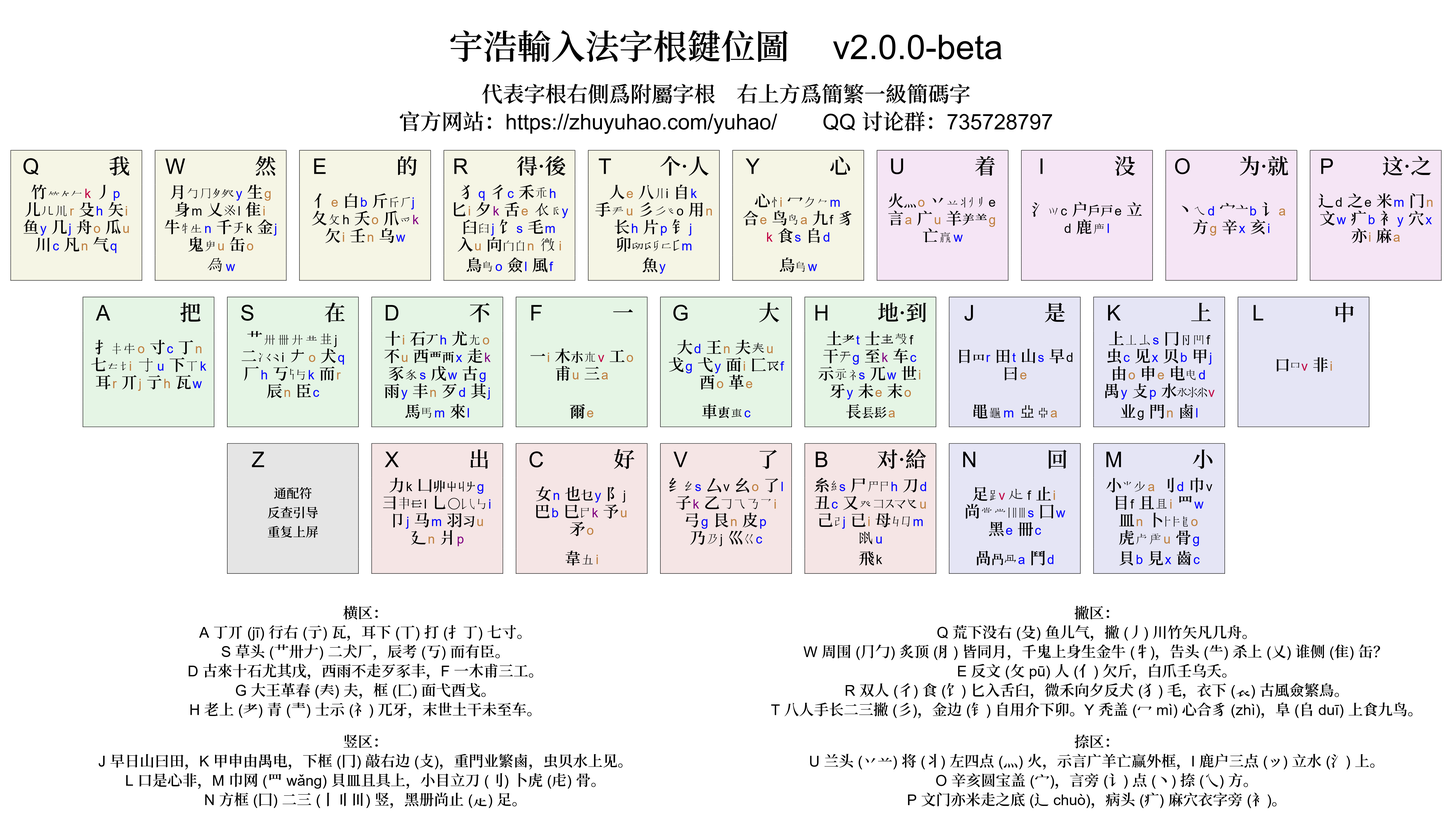
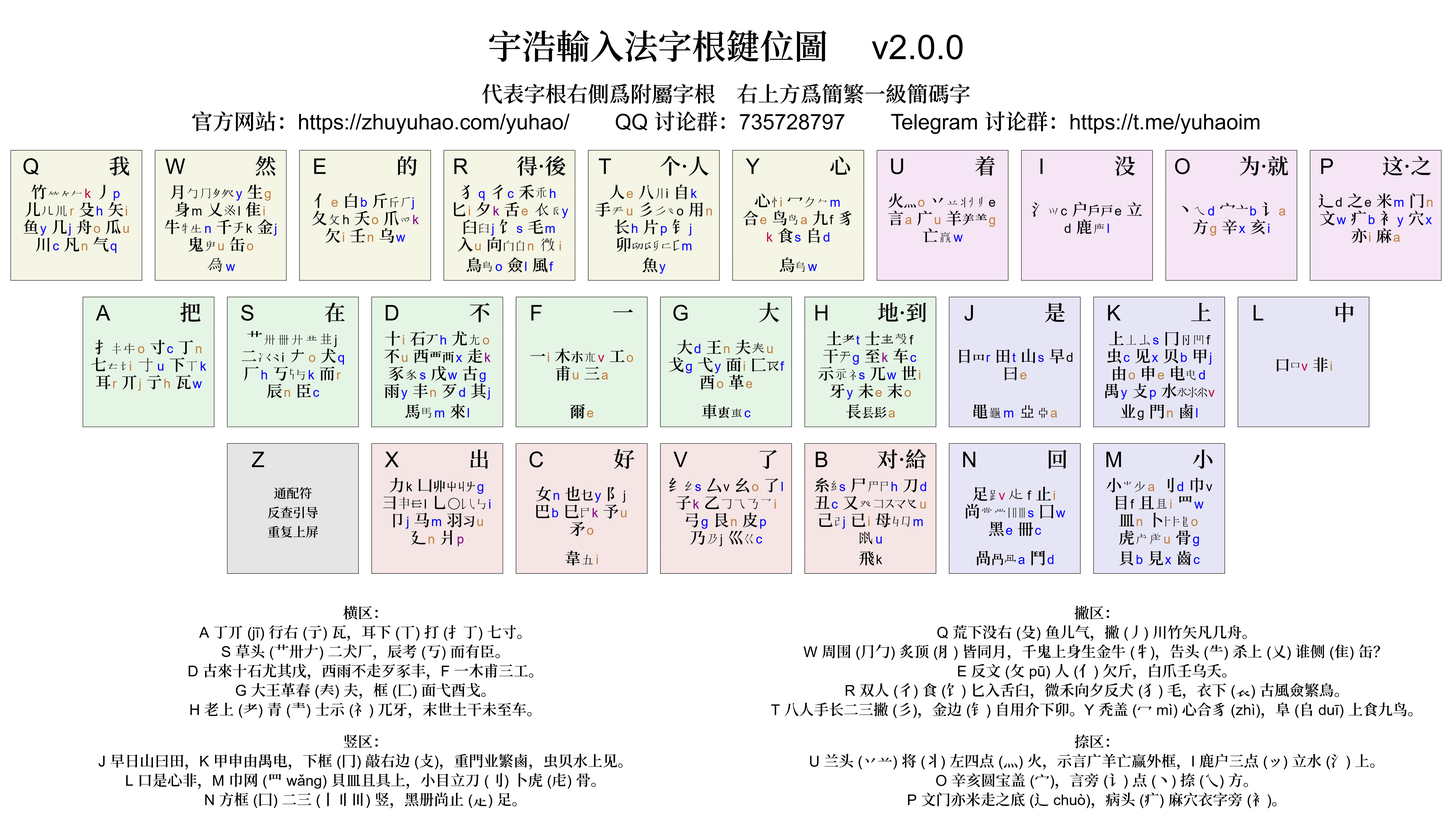
Add statistics on simp 1 chars

Changed region(s): [[0.3124, 0.031, 0.6872, 0.0931], [0.125, 0.1242, 0.8747, 0.1552]]

diff --git a/docs/articles/statistics.md b/docs/articles/statistics.md
@@ -63,9 +63,9 @@ $$N_{s} = \mid \{z_{ia}, z_{ib}  \text{ if } M(z_{ia}) = M(z_{ib}) \text{ for al
 
 $$N_{d} = \sum\limits_{i \in I, j \in J_i/\{1\}} p(z_{ij}).$$
 
-### 结果
+### 单字全码数据
 
-表格按输入法的性质排列：
+以下为单字全码的结果。表格按输入法的性质排列：
 
 | 方案          | GB2312 | 通规一二级 | 国字常用 | 常用繁简 |   GBK | 简体选重率 | 繁体选重率 | 繁简混合文本选重率 |
 | :------------ | -----: | ---------: | -------: | -------: | ----: | :--------- | :--------- | :----------------- |
@@ -91,7 +91,37 @@ $$N_{d} = \sum\limits_{i \in I, j \in J_i/\{1\}} p(z_{ij}).$$
 | **三码定长**  |        |            |          |          |       |            |            | **出简不出全**     |
 | 三码郑码      |   2700 |       2551 |        - |        - |     - | 51.8‱      | -          | -                  |
 | **音形方案**  |        |            |          |          |       |            |            | **简体方案**       |
-| 小鹤音形      |    730 |        725 |        - |        - |     - | 85.3‱      | -          | -                  |
+| 小鹤音形      |    651 |        641 |        - |        - |     - | 85.5‱      | -          | -                  |
+
+### 一级简码出简不出全数据
+
+以下为一级简码出简不出全的结果，换句话说，如果一个字存在一级简码，则默认只打简码，并将其全码删除。表格按输入法的性质排列：
+
+| 方案          | GB2312 | 通规一二级 | 国字常用 | 常用繁简 |   GBK | 简体选重率 | 繁体选重率 | 繁简混合文本选重率 |
+| :------------ | -----: | ---------: | -------: | -------: | ----: | :--------- | :--------- | :----------------- |
+| **四码定长**  |        |            |          |          |       |            |            | **字根单编码**     |
+| 五笔86        |    519 |        452 |      333 |     1651 |  6445 | 34.2‱      | 75.5‱      | 225.0‱             |
+| 五笔98        |    560 |        500 |      363 |     1669 |  6394 | 333.6‱     | 323.7‱     | 532.3‱             |
+| 五笔06·新世纪 |    577 |        536 |      421 |     1734 |  6640 | 320.8‱     | 325.0‱     | 515.9‱             |
+| 张码          |    124 |        130 |      152 |     1032 |  4578 | 268.6‱     | 296.3‱     | 371.4‱             |
+| 蓝宝石        |    382 |        354 |      282 |      709 |  5070 | 20.5‱      | 57.3‱      | 58.2‱              |
+| **四码定长**  |        |            |          |          |       |            |            | **字根双编码**     |
+| 郑码          |    549 |        519 |      316 |     1783 |  6629 | 51.4‱      | 66.5‱      | 329.6‱             |
+| 真码          |    412 |        356 |      234 |     1821 |  6655 | 6.4‱       | 41.5‱      | 254.2‱             |
+| 徐码13        |    324 |        288 |      121 |      458 |  2863 | 10.4‱      | 22.5‱      | 24.5‱              |
+| 徐码23        |    318 |        278 |      125 |      451 |  2894 | 10.7‱      | 21.7‱      | 25.0‱              |
+| 宇浩v1.4.3    |    313 |        271 |      214 |      583 |  5015 | 5.5‱       | 15.6‱      | 17.7‱              |
+| 宇浩v2.0.0    |    314 |        265 |      208 |      579 |  5186 | 5.2‱       | 15.3‱      | 17.0‱              |
+| **五码定长**  |        |            |          |          |       |            |            | 字根单编码         |
+| 仓颉五代      |    414 |        363 |      162 |      581 |  2886 | 88.4‱      | 48.4‱      | 104.3‱             |
+| **不定长**    |
+| 山人全息      |    202 |        168 |       84 |     1458 |  3961 | 6.4‱       | 7.5‱       | 239.0‱             |
+| **选重方案**  |
+| 五笔092       |   1907 |       1602 |      818 |     2065 | 11449 | 1314.3‱    | 727.8‱     | 1085.0‱            |
+| **三码定长**  |        |            |          |          |       |            |            | **出简不出全**     |
+| 三码郑码      |   2700 |       2551 |        - |        - |     - | 51.8‱      | -          | -                  |
+| **音形方案**  |        |            |          |          |       |            |            | **简体方案**       |
+| 小鹤音形      |    651 |        641 |        - |        - |     - | 85.5‱      | -          | -                  |
 
 ## 词语重码数据
 
@@ -176,30 +206,92 @@ $$N_{d} = \sum\limits_{i \in I, j \in J_i/\{1\}} p(w_{ij}).$$
 
 ## 古今名著选重频率统计
 
-以下为单字全码情况下，部分著名文学作品的选重频率统计。表格按输入法的性质排列：
+这里给出部分名著的选重频率统计。四本简体、三本繁体、一本繁简混排。
 
-| 方案          | 毛泽东选集(简) | 天龙八部(简) | 三体三部曲(简) | 战争与和平(简) | 史記(繁) | 昭明文選(繁) | 紅樓夢(繁) | 論語集解(繁簡混排) |
-| :------------ | -------------: | -----------: | -------------: | -------------: | -------: | -----------: | ---------: |
-| **四码定长**  |                |              |                |                |          |              |            |                    |
-| 五笔86        |          25.8‱ |        30.6‱ |          25.7‱ |          20.9‱ |    88.4‱ |       105.9‱ |      28.9‱ | 260.8‱             |
-| 五笔98        |          31.9‱ |        32.7‱ |          34.5‱ |          33.9‱ |    71.3‱ |        95.3‱ |      33.9‱ | 270.6‱             |
-| 五笔06·新世纪 |          22.2‱ |        25.5‱ |          24.3‱ |          37.1‱ |    79.7‱ |        93.5‱ |      35.3‱ | 252.5‱             |
-| 张码          |         198.3‱ |       149.0‱ |         143.8‱ |         134.3‱ |    83.6‱ |        95.5‱ |      90.1‱ | 194.9‱             |
-| 蓝宝石        |          18.4‱ |        20.5‱ |          24.9‱ |          18.1‱ |    43.8‱ |        84.7‱ |      25.3‱ | 20.5‱              |
-| 郑码          |          44.2‱ |        51.6‱ |          49.2‱ |          48.1‱ |    89.9‱ |       107.6‱ |      39.2‱ | 266.7‱             |
-| 真码          |           5.3‱ |        14.0‱ |           5.6‱ |           6.9‱ |    45.3‱ |        74.2‱ |      16.6‱ | 298.4‱             |
-| 徐码13        |           3.5‱ |         9.6‱ |           7.0‱ |           7.2‱ |    20.4‱ |        32.6‱ |      10.0‱ | 12.2‱              |
-| 徐码23        |           3.3‱ |         9.8‱ |           7.0‱ |           7.8‱ |    22.1‱ |        34.5‱ |      10.9‱ | 10.3‱              |
-| 宇浩v1.4.3    |           1.3‱ |         3.1‱ |           2.0‱ |           2.8‱ |    31.1‱ |        43.8‱ |      10.5‱ | 7.3‱               |
-| 宇浩v2.0.0    |           1.3‱ |         3.1‱ |           3.1‱ |           2.7‱ |    31.1‱ |        44.4‱ |       9.8‱ | 4.4‱               |
+### 单字全码数据
+
+以下为单字全码的结果。
+
+| 方案          | 毛泽东选集(简) | 天龙八部(简) | 三体(简) | 战争与和平(简) | 史記(繁) | 昭明文選(繁) | 紅樓夢(繁) | 論語集解(繁簡混排) |
+| :------------ | -------------: | -----------: | -------: | -------------: | -------: | -----------: | ---------: |
+| **四码定长**  |                |              |          |                |          |              |            |                    |
+| 五笔86        |          25.8‱ |        30.6‱ |    25.7‱ |          20.9‱ |    88.4‱ |       105.9‱ |      28.9‱ | 260.8‱             |
+| 五笔98        |          31.9‱ |        32.7‱ |    34.5‱ |          33.9‱ |    71.3‱ |        95.3‱ |      33.9‱ | 270.6‱             |
+| 五笔06·新世纪 |          22.2‱ |        25.5‱ |    24.3‱ |          37.1‱ |    79.7‱ |        93.5‱ |      35.3‱ | 252.5‱             |
+| 张码          |         198.3‱ |       149.0‱ |   143.8‱ |         134.3‱ |    83.6‱ |        95.5‱ |      90.1‱ | 194.9‱             |
+| 蓝宝石        |          18.4‱ |        20.5‱ |    24.9‱ |          18.1‱ |    43.8‱ |        84.7‱ |      25.3‱ | 20.5‱              |
+| 郑码          |          44.2‱ |        51.6‱ |    49.2‱ |          48.1‱ |    89.9‱ |       107.6‱ |      39.2‱ | 266.7‱             |
+| 真码          |           5.3‱ |        14.0‱ |     5.6‱ |           6.9‱ |    45.3‱ |        74.2‱ |      16.6‱ | 298.4‱             |
+| 徐码13        |           3.5‱ |         9.6‱ |     7.0‱ |           7.2‱ |    20.4‱ |        32.6‱ |      10.0‱ | 12.2‱              |
+| 徐码23        |           3.3‱ |         9.8‱ |     7.0‱ |           7.8‱ |    22.1‱ |        34.5‱ |      10.9‱ | 10.3‱              |
+| 宇浩v1.4.3    |           1.3‱ |         3.1‱ |     2.0‱ |           2.8‱ |    31.1‱ |        43.8‱ |      10.5‱ | 7.3‱               |
+| 宇浩v2.0.0    |           1.3‱ |         3.1‱ |     3.1‱ |           2.7‱ |    31.1‱ |        44.4‱ |       9.8‱ | 4.4‱               |
 | **五码定长**  |
-| 倉頡五代      |          74.0‱ |        71.1‱ |          80.2‱ |          60.0‱ |    74.6‱ |        73.7‱ |      33.0‱ | 67.4‱              |
+| 倉頡五代      |          74.0‱ |        71.1‱ |    80.2‱ |          60.0‱ |    74.6‱ |        73.7‱ |      33.0‱ | 67.4‱              |
 | **不定长**    |
-| 山人全息      |           2.4‱ |         6.8‱ |           5.6‱ |           6.1‱ |    20.8‱ |        18.1‱ |       6.3‱ | 281.3‱             |
-| **三码定长**  |                |              |                |                |          |              |            | **出简不出全**     |
-| 三码郑码      |           9.7‱ |        47.3‱ |          26.4‱ |          29.5‱ |   296.1‱ |       395.8‱ |     143.8‱ | 330.2‱             |
-| **音形方案**  |                |              |                |                |          |              |            | **简体方案**       |
-| 小鹤音形      |          81.7‱ |        84.2‱ |          74.2‱ |          69.6‱ |    85.7‱ |        67.4‱ |      35.1‱ | 75.2‱              |
+| 山人全息      |           2.4‱ |         6.8‱ |     5.6‱ |           6.1‱ |    20.8‱ |        18.1‱ |       6.3‱ | 281.3‱             |
+| **三码定长**  |                |              |          |                |          |              |            | **出简不出全**     |
+| 三码郑码      |           9.7‱ |        47.3‱ |    26.4‱ |          29.5‱ |
+| **音形方案**  |                |              |          |                |          |              |            | **简体方案**       |
+| 小鹤音形      |          81.7‱ |        84.2‱ |    74.2‱ |          69.6‱ |
+
+### 一级简码出简不出全数据
+
+以下为一级简码出简不出全的结果，换句话说，如果一个字存在一级简码，则默认只打简码，并将其全码后置。
+
+| 方案          | 毛泽东选集(简) | 天龙八部(简) | 三体(简) | 战争与和平(简) | 史記(繁) | 昭明文選(繁) | 紅樓夢(繁) | 論語集解(繁簡混排) |
+| :------------ | -------------: | -----------: | -------: | -------------: | -------: | -----------: | ---------: |
+| 五笔86        |          25.8‱ |        30.6‱ |    25.7‱ |          20.9‱ |    88.4‱ |       105.9‱ |      28.9‱ | 260.8‱             |
+| 五笔98        |         316.1‱ |       414.0‱ |   273.7‱ |         257.7‱ |   259.0‱ |       269.2‱ |     294.1‱ | 389.3‱             |
+| 五笔06·新世纪 |         306.3‱ |       396.4‱ |   262.1‱ |         253.7‱ |   255.4‱ |       264.9‱ |     290.3‱ | 367.3‱             |
+| 张码          |         520.2‱ |       296.1‱ |   277.6‱ |         229.8‱ |   382.6‱ |       260.8‱ |     231.4‱ | 314.5‱             |
+| 蓝宝石        |          18.1‱ |        13.8‱ |    24.6‱ |          17.5‱ |    42.3‱ |        84.2‱ |      24.6‱ | 20.5‱              |
+| 郑码          |          39.5‱ |        41.5‱ |    45.8‱ |          43.1‱ |    90.2‱ |       107.8‱ |      39.3‱ | 263.3‱             |
+| 真码          |           1.1‱ |         3.0‱ |     2.1‱ |           2.1‱ |    44.9‱ |        74.1‱ |      14.2‱ | 290.1‱             |
+| 徐码13        |           3.5‱ |         9.6‱ |     7.0‱ |           7.2‱ |    19.9‱ |        30.3‱ |       9.9‱ | 11.7‱              |
+| 徐码23        |           3.3‱ |         9.8‱ |     7.0‱ |           7.8‱ |    22.1‱ |        32.9‱ |      10.7‱ | 9.8‱               |
+| 宇浩v1.4.3    |           1.3‱ |         3.1‱ |     2.0‱ |           2.8‱ |    31.1‱ |        43.8‱ |      10.5‱ | 7.3‱               |
+| 宇浩v2.0.0    |           1.3‱ |         3.1‱ |     3.1‱ |           2.7‱ |    31.1‱ |        44.4‱ |       9.8‱ | 4.4‱               |
+
+上表反映的是确定性，而平均码长则反映输入效率。现统计如下。
+
+| 方案          | 毛泽东选集(简) | 天龙八部(简) | 三体(简) | 战争与和平(简) | 史記(繁) | 昭明文選(繁) | 紅樓夢(繁) | 論語集解(繁簡混排) |
+| :------------ | -------------: | -----------: | -------: | -------------: | -------: | -----------: | ---------: |
+| 五笔86        |            3.5 |         3.67 |     3.59 |           3.61 |     3.87 |          3.9 |       3.68 | 3.83               |
+| 五笔98        |           3.47 |         3.62 |     3.56 |           3.59 |     3.73 |         3.79 |       3.63 | 3.64               |
+| 五笔06·新世纪 |           3.47 |         3.62 |     3.56 |           3.59 |     3.73 |          3.8 |       3.63 | 3.66               |
+| 张码          |           3.11 |         3.18 |     3.12 |           3.12 |     3.48 |         3.59 |       3.31 | 3.39               |
+| 蓝宝石        |            3.6 |          3.6 |     3.57 |           3.54 |     3.85 |         3.89 |       3.62 | 3.8                |
+| 郑码          |            3.5 |         3.56 |     3.48 |            3.5 |     3.68 |         3.75 |       3.58 | 3.66               |
+| 真码          |           3.47 |         3.54 |     3.47 |           3.53 |     3.67 |         3.73 |       3.57 | 3.63               |
+| 徐码13        |           3.45 |         3.48 |     3.48 |           3.45 |     3.63 |         3.67 |       3.54 | 3.55               |
+| 徐码23        |           3.46 |          3.5 |     3.48 |           3.46 |     3.64 |         3.68 |       3.51 | 3.55               |
+| 宇浩v1.4.3    |           3.62 |         3.64 |     3.57 |            3.6 |      3.9 |         3.93 |       3.68 | 3.86               |
+| 宇浩v2.0.0    |           3.62 |         3.63 |     3.57 |            3.6 |     3.89 |         3.92 |       3.68 | 3.85               |
+
+### 二级简码出简不出全数据
+
+以下为二级简码出简不出全的结果，换句话说，如果一个字存在一级和二级简码，则默认只打简码，并将其全码后置。部分方案设置了二级简码字，数据无法准确计算，故而略去。注意，真码只设置一级简码，不设置二级简码。
+
+| 方案       | 毛泽东选集(简) | 天龙八部(简) | 三体(简) | 战争与和平(简) | 史記(繁) | 昭明文選(繁) | 紅樓夢(繁) | 論語集解(繁簡混排) |
+| :--------- | -------------: | -----------: | -------: | -------------: | -------: | -----------: | ---------: |
+| 五笔86     |           5.7‱ |        15.6‱ |    12.1‱ |           9.0‱ |    75.0‱ |        93.8‱ |      24.1‱ | 192.0‱             |
+| 蓝宝石     |           3.8‱ |         5.6‱ |     1.7‱ |           2.2‱ |    35.3‱ |        73.3‱ |      20.4‱ | 9.8‱               |
+| 郑码       |          13.1‱ |        15.7‱ |    11.7‱ |          14.7‱ |    73.0‱ |        81.3‱ |      22.2‱ | 213.4‱             |
+| 真码       |           1.1‱ |         3.0‱ |     2.1‱ |           2.1‱ |    44.9‱ |        74.1‱ |      14.2‱ | 290.1‱             |
+| 徐码23     |           3.2‱ |         7.9‱ |     5.8‱ |           7.3‱ |    23.6‱ |        40.6‱ |      10.2‱ | 12.7‱              |
+| 宇浩v2.0.0 |           1.0‱ |         1.6‱ |     2.5‱ |           1.9‱ |    24.6‱ |        37.9‱ |       8.1‱ | 3.9‱               |
+
+上表反映的是确定性，而平均码长则反映输入效率。现统计如下。注意，真码只设置一级简码，不设置二级简码。
+
+| 方案       | 毛泽东选集(简) | 天龙八部(简) | 三体(简) | 战争与和平(简) | 史記(繁) | 昭明文選(繁) | 紅樓夢(繁) | 論語集解(繁簡混排) |
+| :--------- | -------------: | -----------: | -------: | -------------: | -------: | -----------: | ---------: |
+| 五笔86     |           3.12 |         3.31 |     3.21 |           3.24 |     3.59 |         3.65 |       3.44 | 3.49               |
+| 蓝宝石     |           3.04 |          3.1 |     3.03 |           3.05 |     3.48 |         3.56 |       3.29 | 3.36               |
+| 郑码       |           3.18 |         3.31 |     3.19 |           3.23 |     3.54 |         3.64 |        3.4 | 3.49               |
+| 真码       |           3.47 |         3.54 |     3.47 |           3.53 |     3.67 |         3.73 |       3.57 | 3.63               |
+| 徐码23     |           3.15 |         3.21 |     3.18 |           3.17 |     3.49 |         3.53 |       3.32 | 3.33               |
+| 宇浩v2.0.0 |           3.16 |         3.16 |     3.09 |           3.11 |     3.51 |          3.6 |       3.29 | 3.41               |
 
 ## 码表来源
 

diff --git a/index.md b/index.md
@@ -21,14 +21,14 @@ nav_order: 1
 >点击加入官方 QQ 群: [735728797](https://jq.qq.com/?_wv=1027&k=2OYDP4Tk) · 
 >点击加入官方 Telegram 群: [yuhaoim](https://t.me/yuhaoim)  
 >[正(繁)體字版官方網站](https://zhuyuhao.com/yuhaoim)  
->[宇浩二代v2.0.0-beta公测版下载(四重注解+台湾字形支持)](https://github.com/forFudan/yuhao/releases/tag/v2.0.0-beta)  
+>[宇浩二代v2.0.0-beta下载(四重注解+台湾字形支持)](https://github.com/forFudan/yuhao/releases/tag/v2.0.0-beta)  
 >[宇浩一代v1.4.3下载](https://github.com/forFudan/yuhao/releases/tag/v1.4.3) · 
 >[宇浩一代全部资料和教程](./docs/v1/v1)  
 >[快速入门](./docs/cookbook) · 
 >[详细教程](./docs/learn) · 
 >[在线练习](./docs/practice) · 
 >[更新日志](./docs/updates/updates) · 
->[二代拆分查询(台湾字形支持)](./v2/chaifen/)  
+>[拆分查询(台湾字形支持)](./v2/chaifen/)  
 
 ## 简介
 
@@ -51,7 +51,7 @@ nav_order: 1
 
 [点击这里，使用字根练习小程序，直接学习最常用的100个字根。](./v2/practice/practice_100.html)两个小时后，你就可以开始上手打字了。
 
-[![宇浩输入法宋体字根图](./image/宇浩输入法宋体字根图.png)](./image/宇浩输入法宋体字根图.png)
+[![宇浩输入法宋体字根图](./image/宇浩输入法宋体字根图v2.png)](./image/宇浩输入法宋体字根图v2.png)
 
 ## 特点
 
@@ -96,32 +96,38 @@ nav_order: 1
 {: .highlight }
 [点击此处](./docs/articles/discussion)详细了解我对一款具有平衡性的输入法的一些思考和分析，以及宇浩输入法的设计理念和基本考量（陆标繁体书写）。
 
-## 常见输入法古今名著选重频率
+## 常见输入法的世界名著选重率
 
-以下为单字全码情况下，部分著名文学作品的选重频率统计（单位为每万字选重次数）。表格按输入法的性质排列：
+这里给出部分名著的选重频率统计。四本简体、三本繁体、一本繁简混排。单位为每万字选重次数。单列数据最低值加粗表示。
 
-| 方案          | 毛泽东选集(简) | 天龙八部(简) | 三体三部曲(简) | 战争与和平(简) | 史記(繁) | 昭明文選(繁) | 紅樓夢(繁) | 論語集解(繁簡混排) |
-| :------------ | -------------: | -----------: | -------------: | -------------: | -------: | -----------: | ---------: | -----------------: |
-| **四码定长**  |                |              |                |                |          |              |            |                    |
-| 五笔86        |          25.8‱ |        30.6‱ |          25.7‱ |          20.9‱ |    88.4‱ |       105.9‱ |      28.9‱ |             260.8‱ |
-| 五笔98        |          31.9‱ |        32.7‱ |          34.5‱ |          33.9‱ |    71.3‱ |        95.3‱ |      33.9‱ |             270.6‱ |
-| 五笔06·新世纪 |          22.2‱ |        25.5‱ |          24.3‱ |          37.1‱ |    79.7‱ |        93.5‱ |      35.3‱ |             252.5‱ |
-| 张码          |         198.3‱ |       149.0‱ |         143.8‱ |         134.3‱ |    83.6‱ |        95.5‱ |      90.1‱ |             194.9‱ |
-| 蓝宝石        |          18.4‱ |        20.5‱ |          24.9‱ |          18.1‱ |    43.8‱ |        84.7‱ |      25.3‱ |              20.5‱ |
-| 郑码          |          44.2‱ |        51.6‱ |          49.2‱ |          48.1‱ |    89.9‱ |       107.6‱ |      39.2‱ |             266.7‱ |
-| 真码          |           5.3‱ |        14.0‱ |           5.6‱ |           6.9‱ |    45.3‱ |        74.2‱ |      16.6‱ |             298.4‱ |
-| 徐码13        |           3.5‱ |         9.6‱ |           7.0‱ |           7.2‱ |    20.4‱ |        32.6‱ |      10.0‱ |              12.2‱ |
-| 徐码23        |           3.3‱ |         9.8‱ |           7.0‱ |           7.8‱ |    22.1‱ |        34.5‱ |      10.9‱ |              10.3‱ |
-| 宇浩v1.4.3    |           1.3‱ |         3.1‱ |           2.0‱ |           2.8‱ |    31.1‱ |        43.8‱ |      10.5‱ |               7.3‱ |
-| 宇浩v2.0.0    |           1.3‱ |         3.1‱ |           3.1‱ |           2.7‱ |    31.1‱ |        44.4‱ |       9.8‱ |               4.4‱ |
-| **五码定长**  |
-| 倉頡五代      |          74.0‱ |        71.1‱ |          80.2‱ |          60.0‱ |    74.6‱ |        73.7‱ |      33.0‱ |              67.4‱ |
-| **不定长**    |
-| 山人全息      |           2.4‱ |         6.8‱ |           5.6‱ |           6.1‱ |    20.8‱ |        18.1‱ |       6.3‱ |             281.3‱ |
-| **三码定长**  |                |              |                |                |          |              |            |     **出简不出全** |
-| 三码郑码      |           9.7‱ |        47.3‱ |          26.4‱ |          29.5‱ |        - |            - |          - |                  - |
-| **音形方案**  |                |              |                |                |          |              |            |       **简体方案** |
-| 小鹤音形      |          81.7‱ |        84.2‱ |          74.2‱ |          69.6‱ |        - |            - |          - |                  - |
+以下为一级简码出简不出全的结果，换句话说，如果一个字存在一级简码，则默认只打简码，并将其全码删除。
+
+| 方案          | 毛泽东选集(简) | 天龙八部(简) | 三体(简) | 战争与和平(简) |  史記(繁) | 昭明文選(繁) | 紅樓夢(繁) | 論語集解(繁簡混排) |
+| :------------ | -------------: | -----------: | -------: | -------------: | --------: | -----------: | ---------: |
+| 五笔86        |          25.8‱ |        30.6‱ |    25.7‱ |          20.9‱ |     88.4‱ |       105.9‱ |      28.9‱ | 260.8‱             |
+| 五笔98        |         316.1‱ |       414.0‱ |   273.7‱ |         257.7‱ |    259.0‱ |       269.2‱ |     294.1‱ | 389.3‱             |
+| 五笔06·新世纪 |         306.3‱ |       396.4‱ |   262.1‱ |         253.7‱ |    255.4‱ |       264.9‱ |     290.3‱ | 367.3‱             |
+| 张码          |         520.2‱ |       296.1‱ |   277.6‱ |         229.8‱ |    382.6‱ |       260.8‱ |     231.4‱ | 314.5‱             |
+| 蓝宝石        |          18.1‱ |        13.8‱ |    24.6‱ |          17.5‱ |     42.3‱ |        84.2‱ |      24.6‱ | 20.5‱              |
+| 郑码          |          39.5‱ |        41.5‱ |    45.8‱ |          43.1‱ |     90.2‱ |       107.8‱ |      39.3‱ | 263.3‱             |
+| 真码          |       **1.1‱** |     **3.0‱** |     2.1‱ |       **2.1‱** |     44.9‱ |        74.1‱ |      14.2‱ | 290.1‱             |
+| 徐码13        |           3.5‱ |         9.6‱ |     7.0‱ |           7.2‱ | **19.9‱** |    **30.3‱** |       9.9‱ | 11.7‱              |
+| 徐码23        |           3.3‱ |         9.8‱ |     7.0‱ |           7.8‱ |     22.1‱ |        32.9‱ |      10.7‱ | 9.8‱               |
+| 宇浩v1.4.3    |           1.3‱ |         3.1‱ | **2.0‱** |           2.8‱ |     31.1‱ |        43.8‱ |      10.5‱ | 7.3‱               |
+| 宇浩v2.0.0    |           1.3‱ |         3.1‱ |     3.1‱ |           2.7‱ |     31.1‱ |        44.4‱ |   **9.8‱** | **4.4‱**           |
+
+以下为二级简码出简不出全的结果，换句话说，如果一个字存在一级和二级简码，则默认只打简码，并将其全码后置。部分方案设置了二级简码字，数据无法准确计算，故而略去。注意，真码只设置一级简码，不设置二级简码。
+
+| 方案       | 毛泽东选集(简) | 天龙八部(简) | 三体(简) | 战争与和平(简) |  史記(繁) | 昭明文選(繁) | 紅樓夢(繁) | 論語集解(繁簡混排) |
+| :--------- | -------------: | -----------: | -------: | -------------: | --------: | -----------: | ---------: |
+| 五笔86     |           5.7‱ |        15.6‱ |    12.1‱ |           9.0‱ |     75.0‱ |        93.8‱ |      24.1‱ | 192.0‱             |
+| 蓝宝石     |           3.8‱ |         5.6‱ | **1.7‱** |           2.2‱ |     35.3‱ |        73.3‱ |      20.4‱ | 9.8‱               |
+| 郑码       |          13.1‱ |        15.7‱ |    11.7‱ |          14.7‱ |     73.0‱ |        81.3‱ |      22.2‱ | 213.4‱             |
+| 真码       |           1.1‱ |         3.0‱ |     2.1‱ |           2.1‱ |     44.9‱ |        74.1‱ |      14.2‱ | 290.1‱             |
+| 徐码23     |           3.2‱ |         7.9‱ |     5.8‱ |           7.3‱ | **23.6‱** |        40.6‱ |      10.2‱ | 12.7‱              |
+| 宇浩v2.0.0 |       **1.0‱** |     **1.6‱** |     2.5‱ |       **1.9‱** |     24.6‱ |    **37.9‱** |   **8.1‱** | **3.9‱**           |
+
+更多统计数据可参见文章[《常见输入法重码数据》](./docs/articles/statistics)。
 
 ## 优化算法所使用的指标
 
@@ -146,9 +152,7 @@ nav_order: 1
 1. 在部分指标计算软件中，双手互击只包括了单字，例如，「我今天去那里」被分割成 qagg tobu fgdi hvvt vacj ksij，出现了9次同手击键，9次双手互击，故而互击率为 50%。这种算法无法完全反应实际打字时的双手互击情况。
 2. 在部分指标计算软件中，词语选重率只包括了多字词，不能成词的单字词被移除，例如，「我今天去那里」被分割成「今天  那里」，一共有 2 个词语。倘若「我」和「那里」生了重码，则选重率为 0 / 2 = 0%。这不能完全反应实际打字时的选重频率。
 
-## 衍生作品
-
-### 宇浩三码顶
+## 衍生作品 宇浩三码顶
 
 宇浩三码顶是一个宇浩输入法的衍生方案，基于宇浩的字根布局和拆分数据，引入三码顶字的输入方式。由于其不改变原宇浩的布局和拆分，可以实现和宇浩标准版间的无缝切换。
 

diff --git a/docs/v1/learn.md b/docs/v1/learn.md
@@ -150,7 +150,7 @@ parent: 宇浩一代
 
 字根分布图和字根口诀如下：
 
-[![宇浩输入法宋体字根图](../../image/宇浩输入法宋体字根图.png)](../../image/宇浩输入法宋体字根图.png)
+[![宇浩输入法宋体字根图](../../image/宇浩输入法宋体字根图v1.png)](../../image/宇浩输入法宋体字根图v1.png)
 
 字根口诀：
 
@@ -234,7 +234,7 @@ parent: 宇浩一代
 
 字根图是查询字根的重要工具，初学者应当时常将它放在手边，以利用查询。以下为宇浩输入法全部字根的键位图。繁体特有字根22个，都排在简体字根后。
 
-![宇浩输入法宋体字根图](../../image/宇浩输入法宋体字根图.png)
+![宇浩输入法宋体字根图](../../image/宇浩输入法宋体字根图v1.png)
 
 ## 拆字规则
 

diff --git a/docs/learn.md b/docs/learn.md
@@ -146,7 +146,7 @@ nav_order: 12
 
 字根图是查询字根的重要工具，初学者应当时常将它放在手边，以利用查询。以下为宇浩输入法全部字根的键位图。繁体特有字根22个，都排在简体字根后。
 
-[![宇浩输入法宋体字根图](../image/宇浩输入法宋体字根图v2.0.0.png)](../image/宇浩输入法宋体字根图v2.0.0.png)
+[![宇浩输入法宋体字根图](../image/宇浩输入法宋体字根图v2.png)](../image/宇浩输入法宋体字根图v2.png)
 
 ### 字根大码的规律
 <!-- {: .no_toc } -->

diff --git a/docs/v2/v2.md b/docs/v2/v2.md
@@ -196,7 +196,7 @@ RIME 平臺加入「功能開關一鍵配置」文件，方便用户切換設置
 
 ## 字根圖
 
-[![宇浩输入法宋体字根图测试版](../../image/宇浩输入法宋体字根图v2.0.0.png)](../../image/宇浩输入法宋体字根图v2.0.0.png)
+[![宇浩输入法宋体字根图测试版](../../image/宇浩输入法宋体字根图v2.png)](../../image/宇浩输入法宋体字根图v2.png)
 
 ## 字根表
 

diff --git a/docs/install.md b/docs/install.md
@@ -18,8 +18,8 @@ nav_order: 2
 </details>
 
 {: .highlight }
->[稳定版v1.4.3下载](https://github.com/forFudan/yuhao/releases/tag/v1.4.3)  
->[内测版v2.0.0-beta下载](https://github.com/forFudan/yuhao/releases/tag/v2.0.0-beta)  
+>[v1.4.3下载](https://github.com/forFudan/yuhao/releases/tag/v1.4.3)  
+>[v2.0.0-beta下载](https://github.com/forFudan/yuhao/releases/tag/v2.0.0-beta)  
 
 ## QQ 群资源
 

diff --git a/docs/cookbook.md b/docs/cookbook.md
@@ -67,7 +67,7 @@ nav_order: 11
 
 字根分布图和字根口诀如下：
 
-[![宇浩输入法宋体字根图v2.0.0](../../image/宇浩输入法宋体字根图v2.0.0.png)](../../image/宇浩输入法宋体字根图v2.0.0.png)
+[![宇浩输入法宋体字根图v2.0.0](../../image/宇浩输入法宋体字根图v2.png)](../../image/宇浩输入法宋体字根图v2.png)
 
 ## 单字编码
 

diff --git a/docs/v1/cookbook.md b/docs/v1/cookbook.md
@@ -61,7 +61,7 @@ parent: 宇浩一代
 
 字根分布图和字根口诀如下：
 
-[![宇浩输入法宋体字根图](../../image/宇浩输入法宋体字根图.png)](../../image/宇浩输入法宋体字根图.png)
+[![宇浩输入法宋体字根图](../../image/宇浩输入法宋体字根图v1.png)](../../image/宇浩输入法宋体字根图v1.png)
 
 ## 单字编码
 

diff --git a/docs/v1/install.md b/docs/v1/install.md
@@ -114,7 +114,7 @@ parent: 宇浩一代
 
 用户还可通过「Shift+Ctrl+C」切换拆分状态。
 
-（注：内测版 v2.0.0-alpha 提供四重注解，额外提示拼音。）
+（注：v2.0.0 提供四重注解，额外提示拼音。）
 
 <!-- omit in toc -->
 ### 自定义常用字符集
